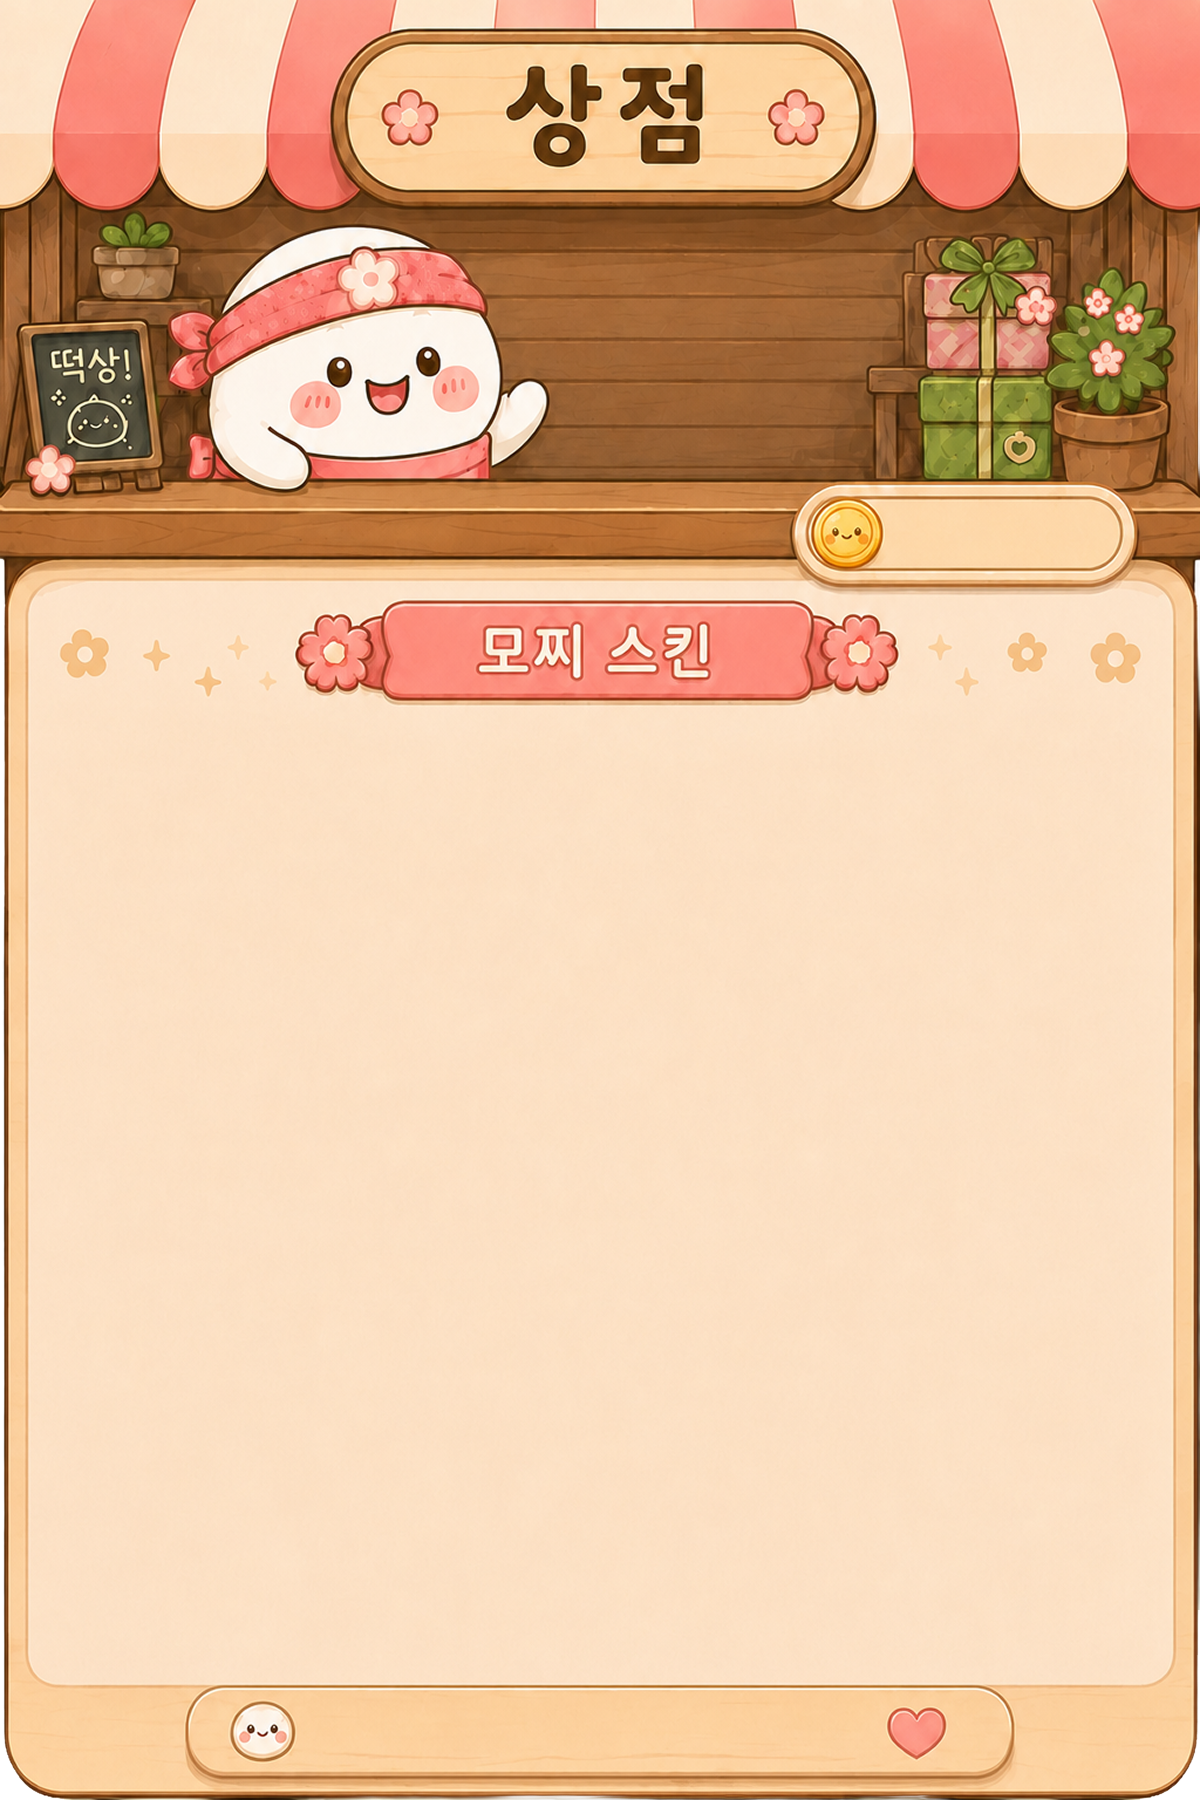
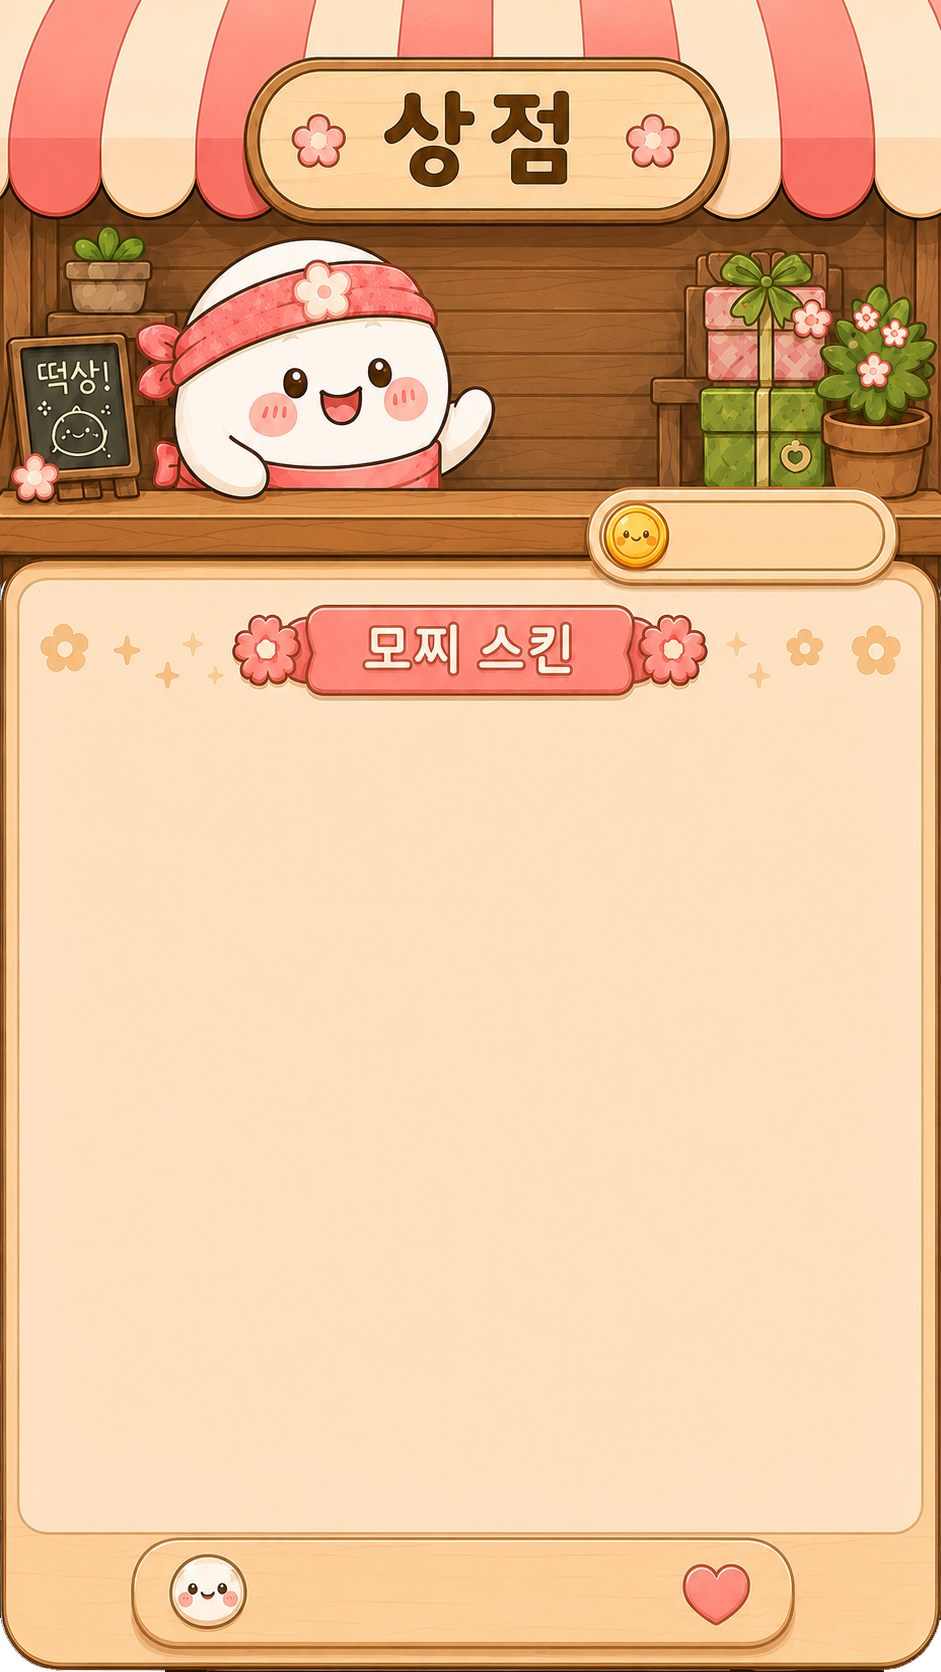
Switch game to 9:16 aspect ratio and update shop UI
- Change logical canvas and #wrap aspect ratio from 2:3 to 9:16 (400x711)
- Replace shop background art with 9:16 version (941x1672)
- Reposition shop coin/grid/caption overlays to match new art

diff --git a/style.css b/style.css
@@ -11,9 +11,9 @@
   }
   #wrap {
     position: relative;
-    /* 창이 좁든 넓든 항상 2:3 비율 유지 (비율 깨짐/이미지 잘림 방지) */
-    width: min(96vw, calc(96vh * 2 / 3));
-    aspect-ratio: 400 / 600;
+    /* 창이 좁든 넓든 항상 9:16 비율 유지 (비율 깨짐/이미지 잘림 방지) */
+    width: min(96vw, calc(96vh * 400 / 711));
+    aspect-ratio: 400 / 711;
     border-radius: 16px;
     box-shadow: 0 8px 40px rgba(180, 140, 180, 0.25);
   }
@@ -335,7 +335,8 @@
   .btn-replay { width: 132px; } /* 홈 버튼과 높이(56px)를 맞춘 가로형 리플레이 버튼 */
 
   /* ---- 상점 (카드형) ---- */
-  .shop-frame { position: relative; height: 100%; aspect-ratio: 1200 / 1800; margin: 0 auto; }
+  /* 상점 아트가 9:16(941×1672)이라 프레임을 wrap에 꽉 채움 */
+  .shop-frame { position: relative; width: 100%; height: 100%; aspect-ratio: 941 / 1672; margin: auto; }
   .shop-bg { position: absolute; inset: 0; width: 100%; height: 100%; display: block; }
   .shop-back {
     position: absolute; top: 10px; left: 10px; z-index: 4;
@@ -351,13 +352,13 @@
   .shop-back:active { transform: translateY(2px) scale(.94); }
   /* 상단 코인 알약 위 잔액 표시 (코인 아이콘은 이미지에 포함) */
   .cur-coin {
-    position: absolute; top: 27.4%; height: 4.2%;
-    left: 74%; width: 17%;
+    position: absolute; top: 30.2%; height: 3.8%;
+    left: 71.5%; width: 20%;
     display: flex; align-items: center; justify-content: center;
     font-weight: 800; font-size: 14px; color: #7a5a3a; pointer-events: none;
   }
   .shop-grid {
-    position: absolute; left: 7%; right: 7%; top: 40%; bottom: 8.5%;
+    position: absolute; left: 8%; right: 8%; top: 44%; bottom: 9%;
     display: grid; grid-template-columns: repeat(3, 1fr); gap: 10px 8px;
     align-content: start; overflow-y: auto; padding: 4px 3px 8px;
     scrollbar-width: thin;
@@ -393,7 +394,7 @@
     border-color: #6fae5f; box-shadow: 0 2.5px 0 #5fa64f; cursor: default;
   }
   .shop-caption {
-    position: absolute; left: 12%; right: 12%; bottom: 2.1%; transform: translateY(-50%);
+    position: absolute; left: 25%; right: 25%; bottom: 3.5%; transform: translateY(-50%);
     text-align: center; font-size: clamp(8px, 2.5vw, 14px); font-weight: 800; color: #a9764f;
     white-space: nowrap; pointer-events: none; z-index: 4;
   }

diff --git a/game.js b/game.js
@@ -1,7 +1,7 @@
 (() => {
   'use strict';
 
-  const W = 400, H = 600;
+  const W = 400, H = 711;   // 9:16 비율 (400 × 711 ≈ 0.5625)
   const canvas = document.getElementById('game');
   const ctx = canvas.getContext('2d');
 